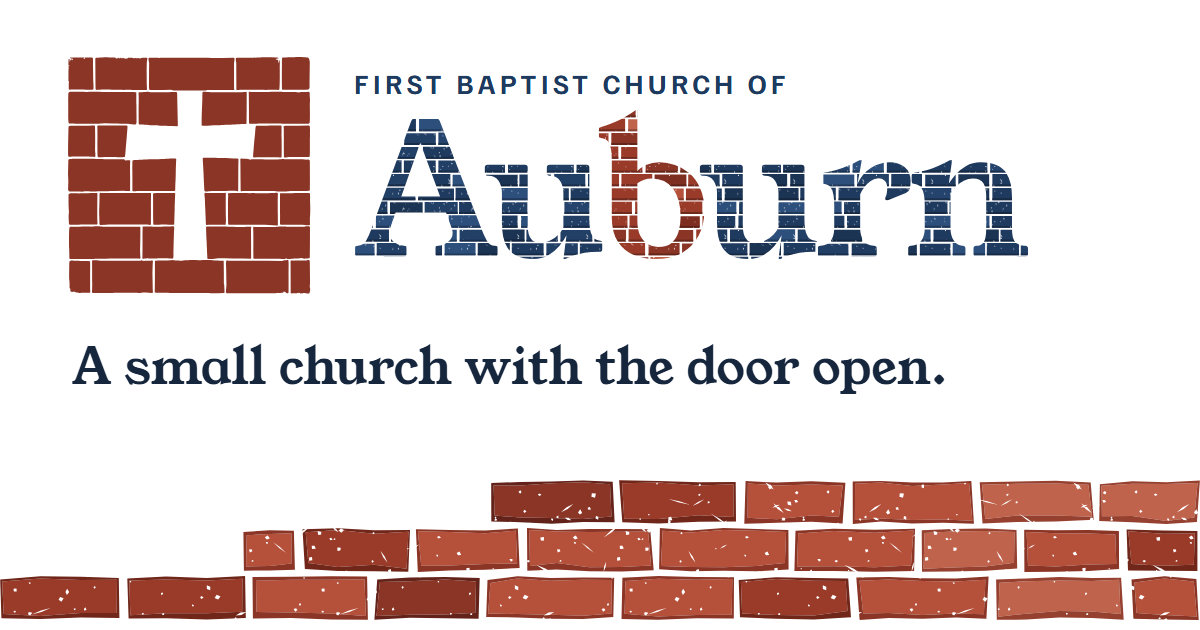
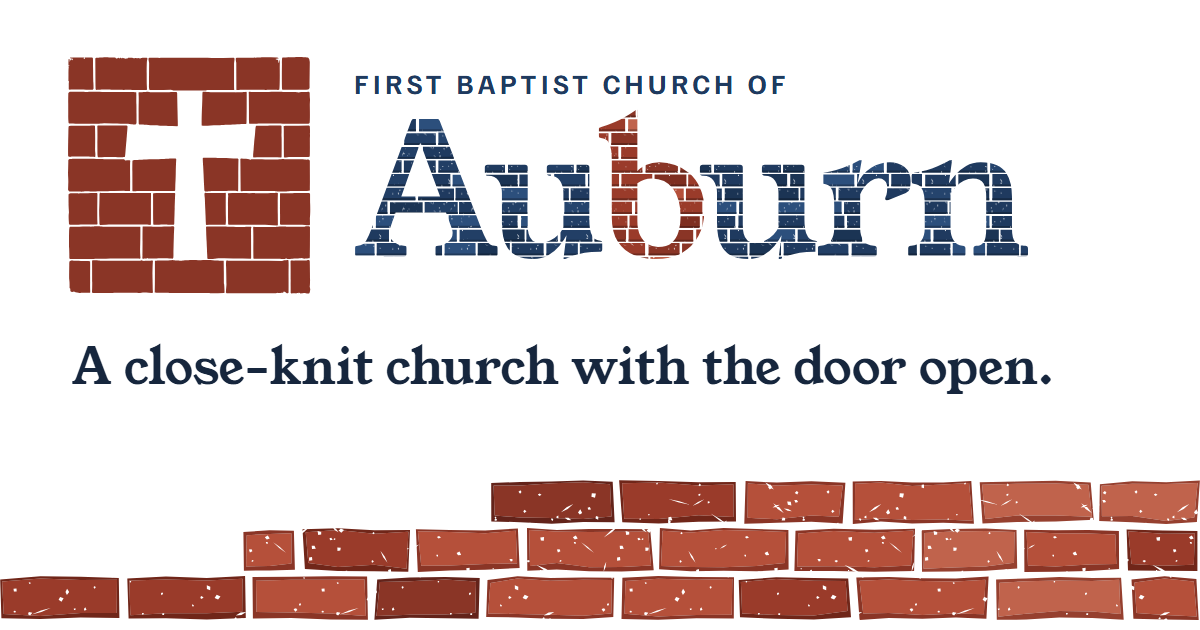
Say close-knit, not small
'Small' can read as dying or under-resourced to a first-time visitor
(design review, 2026-10-24), so the site sells the closeness instead.
The tagline becomes 'A close-knit church with the door open.' (footer
headline, phone menu, share images), and About's 'Who we are' draft and
the 'What kind of church' answer say close-knit. Fallbacks in code, the
brand config and the content scripts match, so nothing brings 'small'
back. 'A small steeple' stays: that is the building.

Content applied with scripts/content/not-small.mjs (backup, dry run,
apply). Share images regenerated.

Changed region(s): [[0.0925, 0.5429, 0.8633, 0.6333]]

diff --git a/src/data/defaultSections.ts b/src/data/defaultSections.ts
@@ -44,7 +44,7 @@ export const DEFAULT_HOME_SECTIONS: PageBuilderBlock[] = [
     headline: 'Auburn',
     welcome: 'Come as you are.',
     subhead:
-      'We are a small Southern Baptist family in Ross Township. Someone will meet you at the door, and there is coffee in the fellowship hall.',
+      'We are a close-knit Southern Baptist family in Ross Township. Someone will meet you at the door, and there is coffee in the fellowship hall.',
     primaryCta: { _type: 'ctaBlock', label: 'Plan your first visit', href: '/plan-your-visit/' },
     secondaryCta: { _type: 'ctaBlock', label: 'Meet the church', href: '/about/' },
   },

diff --git a/src/sanity/schemaTypes/siteSettings.ts b/src/sanity/schemaTypes/siteSettings.ts
@@ -460,7 +460,7 @@ export const siteSettings = defineType({
       type: 'string',
       group: 'social',
       description:
-        'One short sentence under "A small church with the door open." (the tagline above). Leave empty for "Come along on a Sunday, or ask us anything first."',
+        'One short sentence under "A close-knit church with the door open." (the tagline above). Leave empty for "Come along on a Sunday, or ask us anything first."',
       validation: (Rule) => Rule.max(120),
     }),
     defineField({

diff --git a/src/components/MobileNav.tsx b/src/components/MobileNav.tsx
@@ -148,7 +148,7 @@ export default function MobileNav({
   // modals never fight over focus.
   const searchNext = useRef(false);
 
-  const tagline = siteSettings?.tagline ?? 'A small church with the door open.';
+  const tagline = siteSettings?.tagline ?? 'A close-knit church with the door open.';
   const email = siteSettings?.email;
   const phone = siteSettings?.phone;
   const ig = siteSettings?.socialInstagram;
